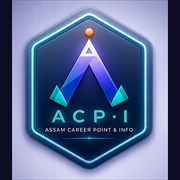
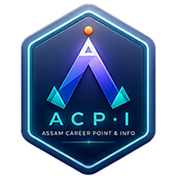
fevicon change

diff --git a/src/app/layout.tsx b/src/app/layout.tsx
@@ -96,7 +96,7 @@ const orgSchema = {
   '@type':     'Organization',
   name:         SITE_NAME,
   url:          SITE_URL,
-  logo:        `${SITE_URL}/acpi-logo.png.png`,
+  logo:        `${SITE_URL}/og-image.png`,
   description:  SITE_DESC,
   sameAs: [
     'https://t.me/assamcareerpoint',
@@ -124,9 +124,9 @@ export default function RootLayout({ children }: { children: React.ReactNode }) 
   return (
     <html lang="en-IN" dir="ltr" className={`${sora.variable} ${nunito.variable}`}>
       <head>
-        <link rel="icon"             type="image/x-icon"            href="/favicon.ico" />
-        <link rel="icon"             type="image/png" href="/acpi-logo.png.png" />
-        <link rel="apple-touch-icon" href="/acpi-logo.png.png" />
+        <link rel="icon"             type="image/x-icon" href="/favicon.ico" />
+        <link rel="icon"             type="image/png" sizes="192x192" href="/icon.png" />
+        <link rel="apple-touch-icon" sizes="180x180" href="/apple-icon.png" />
 
         <script
           type="application/ld+json"
